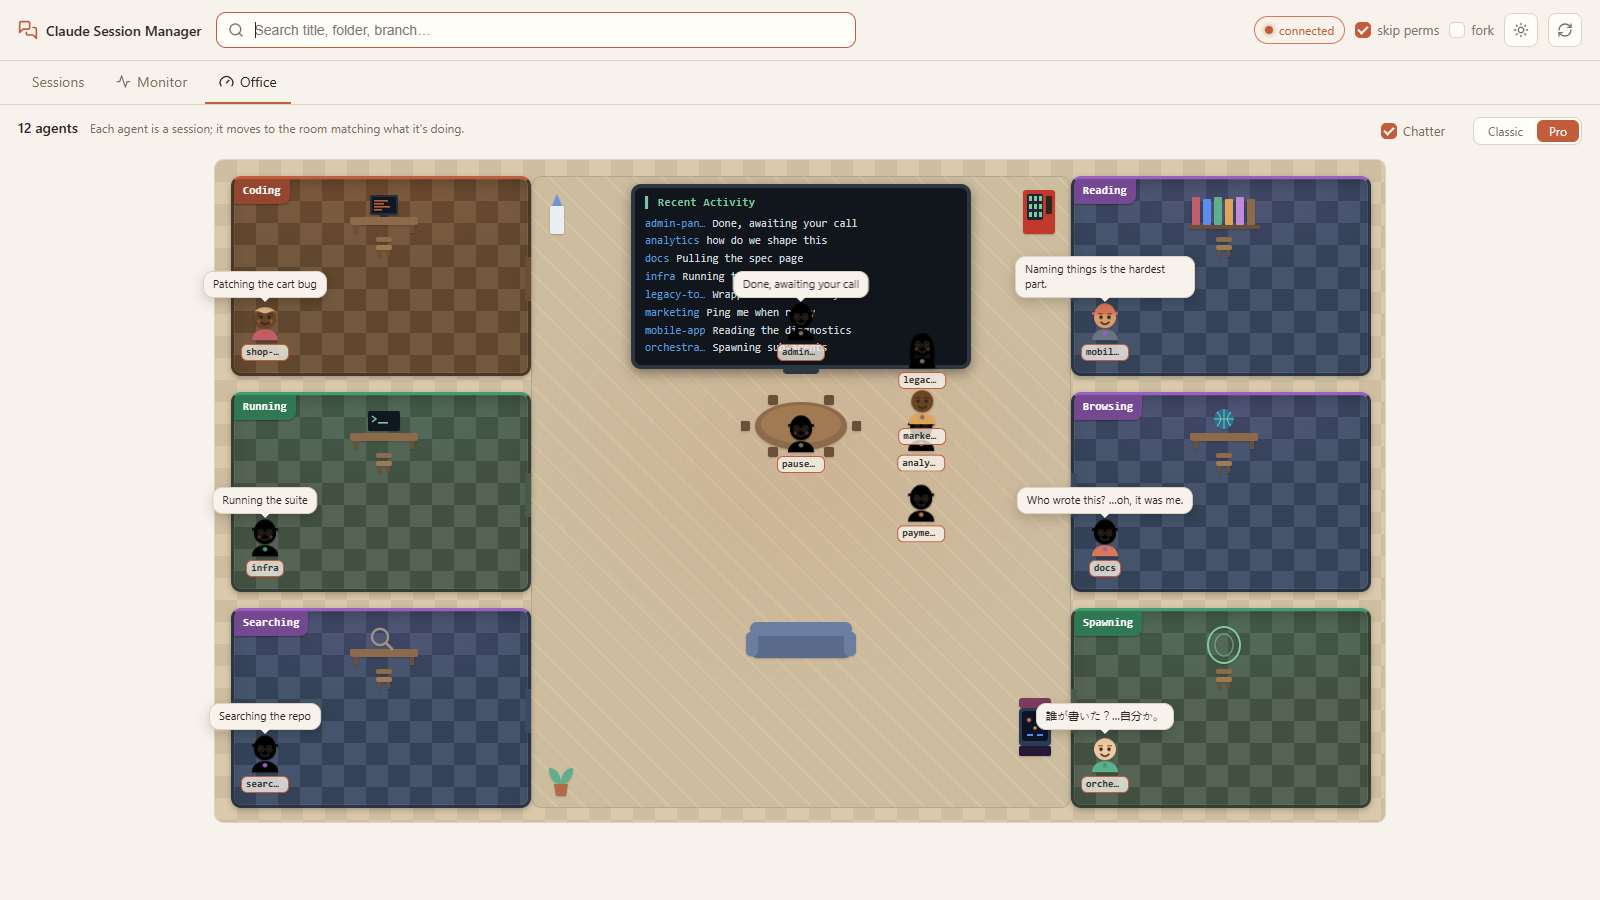
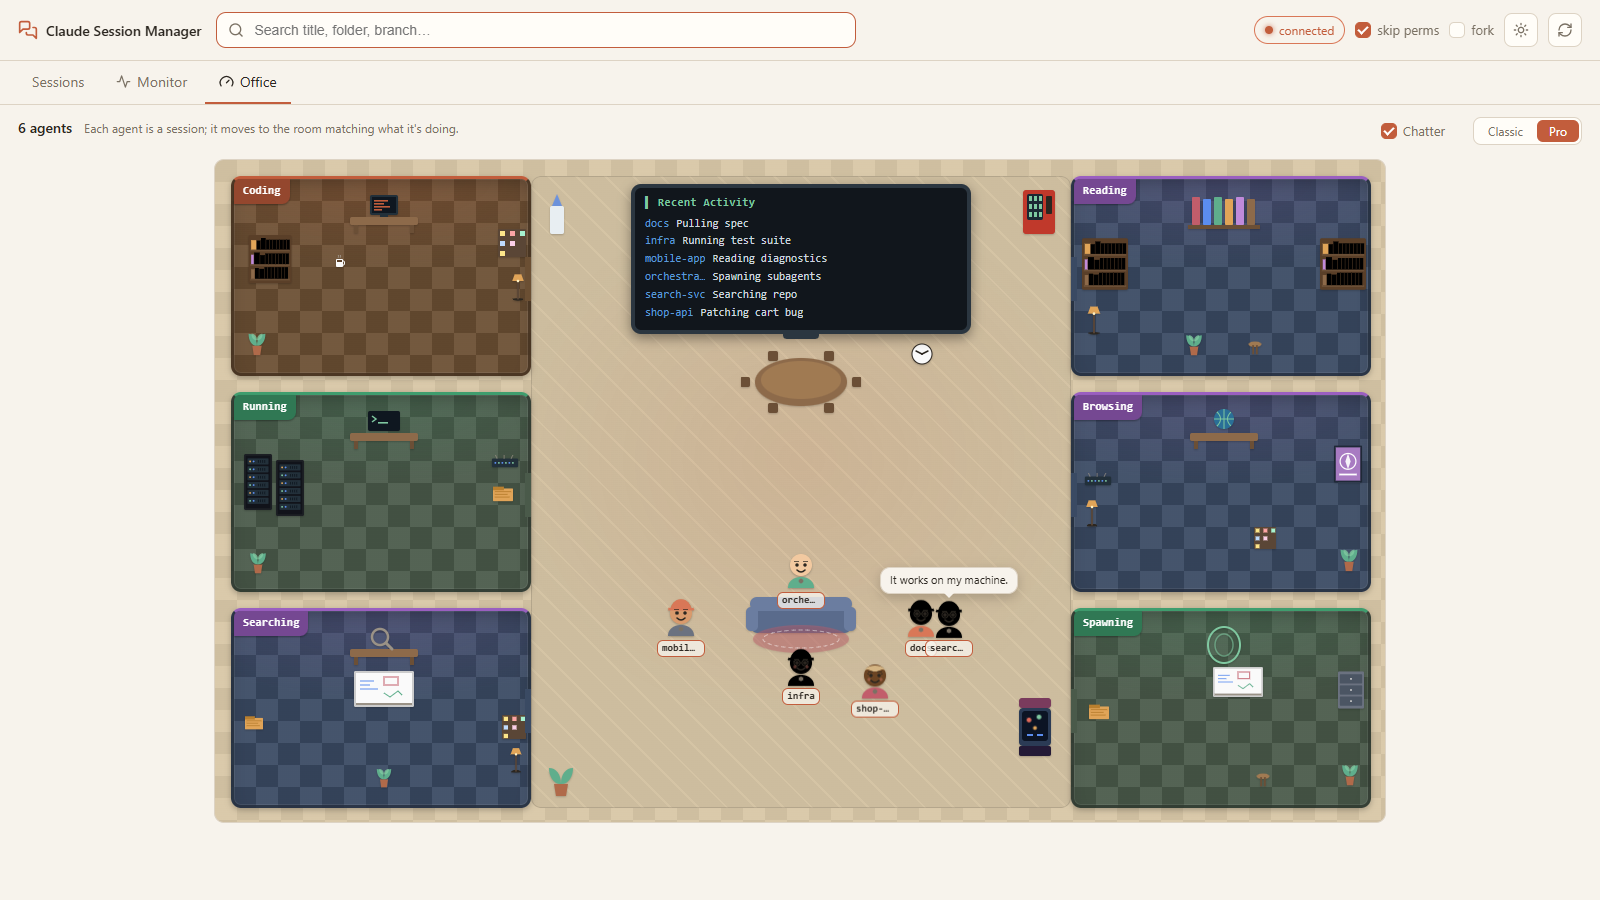
feat(office): furnish Pro rooms with lived-in props
The Pro work rooms used to read 70%-empty — one desk at the top, one chair,
and a lot of bare floor. This commit drops the single chair and sprinkles
3–5 themed props per room so each one reads as a real little workspace:

- Coding   — bookshelf, sticky-note board, lamp, plant, coffee cup
- Reading  — two tall bookshelves, lamp, stool, plant
- Running  — two server racks (with LEDs), router, files, plant
- Searching— whiteboard with doodles, sticky board, files, lamp, plant
- Browsing — poster, router, lamp, plant, sticky board
- Spawning — file cabinet, whiteboard, files, stool, plant

Lounge:
- Pull the meeting table closer to the TV so the dead band between them
  collapses; raise the sofa a touch.
- Add a wall clock beside the TV and a red dashed rug under the sofa so the
  central space reads as a furnished lounge instead of a long hallway.

Refresh assets/office-pro.png with the new look.

diff --git a/packages/ui/public/app.js b/packages/ui/public/app.js
@@ -1529,6 +1529,203 @@ const OfficePro = (() => {
     return g;
   }
 
+  // --- Extra room props (a real lived-in room has more than a desk) -----
+  // Each helper returns a small SVG sized to its viewBox. roomFurniture(def)
+  // sprinkles 3–5 of these around the room so it doesn't look 70%-empty.
+
+  function rpBookshelf(w = 50, h = 56) {
+    const g = svgEl('svg', { viewBox: '0 0 50 56', class: 'desk', width: w, height: h });
+    g.appendChild(svgEl('rect', { x: 0, y: 0, width: 50, height: 56, rx: 2, fill: '#5a3f28' }));
+    const cols = ['#c25d6b','#5b8def','#5fae8c','#e0a458','#c08adb','#8d6a4a','#3a4a63','#7fc8a0'];
+    for (let row = 0; row < 3; row++) {
+      const y = 4 + row * 17;
+      g.appendChild(svgEl('rect', { x: 2, y: y + 13, width: 46, height: 2, fill: '#6b4f36' }));  // shelf board
+      let x = 3;
+      while (x < 46) {
+        const bw = 3 + (row + x) % 4; // 3–6 px wide
+        const bh = 10 + ((x * 3) % 4);
+        g.appendChild(svgEl('rect', { x, y: y + 13 - bh, width: bw, height: bh, rx: 0.5, fill: cols[(row + x) % cols.length] }));
+        x += bw + 0.5;
+      }
+    }
+    return g;
+  }
+  function rpServerRack(w = 32, h = 64) {
+    const g = svgEl('svg', { viewBox: '0 0 32 64', class: 'desk', width: w, height: h });
+    g.appendChild(svgEl('rect', { x: 0, y: 0, width: 32, height: 64, rx: 2, fill: '#1c1f24' }));
+    g.appendChild(svgEl('rect', { x: 2, y: 2, width: 28, height: 60, rx: 1, fill: '#11131a' }));
+    for (let i = 0; i < 6; i++) {
+      const y = 5 + i * 9;
+      g.appendChild(svgEl('rect', { x: 4, y, width: 24, height: 7, rx: 1, fill: '#22303a' }));
+      // LEDs
+      g.appendChild(svgEl('circle', { cx: 7, cy: y + 3.5, r: 1, fill: i % 2 ? '#7fc8a0' : '#e0a458' }));
+      g.appendChild(svgEl('circle', { cx: 11, cy: y + 3.5, r: 1, fill: '#5b8def' }));
+      // vent slits
+      for (let v = 0; v < 4; v++) g.appendChild(svgEl('rect', { x: 16 + v * 2.4, y: y + 2, width: 1, height: 3, fill: '#0f1720' }));
+    }
+    return g;
+  }
+  function rpWhiteboard(w = 60, h = 36) {
+    const g = svgEl('svg', { viewBox: '0 0 60 36', class: 'desk', width: w, height: h });
+    g.appendChild(svgEl('rect', { x: 0, y: 0, width: 60, height: 36, rx: 1.5, fill: '#cccccc' }));    // frame
+    g.appendChild(svgEl('rect', { x: 2, y: 2, width: 56, height: 30, fill: '#fafafa' }));              // board
+    // doodles
+    g.appendChild(svgEl('path', { d: 'M6 10h14M6 14h10M6 18h18', stroke: '#5b8def', 'stroke-width': 1, fill: 'none', 'stroke-linecap': 'round' }));
+    g.appendChild(svgEl('rect', { x: 30, y: 6, width: 14, height: 8, fill: 'none', stroke: '#c25d6b', 'stroke-width': 1 }));
+    g.appendChild(svgEl('path', { d: 'M30 22l6 4 8-6 4 4', stroke: '#5fae8c', 'stroke-width': 1, fill: 'none', 'stroke-linecap': 'round' }));
+    g.appendChild(svgEl('rect', { x: 2, y: 32, width: 56, height: 2, fill: '#9a9286' }));              // tray
+    return g;
+  }
+  function rpPlant(w = 22, h = 30) {
+    const g = svgEl('svg', { viewBox: '0 0 22 30', class: 'desk', width: w, height: h });
+    g.appendChild(svgEl('path', { d: 'M11 18C5 18 2 12 2 5c5 0 9 4 9 13zM11 18c6 0 9-6 9-13-5 0-9 4-9 13z', fill: '#5fae8c' }));
+    g.appendChild(svgEl('path', { d: 'M11 12c-4 0-6-3-6-7 3 0 6 2 6 7zM11 12c4 0 6-3 6-7-3 0-6 2-6 7z', fill: '#7fc8a0', opacity: 0.8 }));
+    g.appendChild(svgEl('path', { d: 'M6 18h10l-1.5 10H7.5z', fill: '#b06a4a' }));
+    return g;
+  }
+  function rpLamp(w = 18, h = 36) {
+    const g = svgEl('svg', { viewBox: '0 0 18 36', class: 'desk', width: w, height: h });
+    g.appendChild(svgEl('ellipse', { cx: 9, cy: 34, rx: 6, ry: 1.5, fill: '#2b2620' }));      // base
+    g.appendChild(svgEl('rect', { x: 8, y: 12, width: 2, height: 22, fill: '#5a4636' }));     // pole
+    g.appendChild(svgEl('path', { d: 'M2 12 L16 12 L13 4 L5 4 z', fill: '#e0a458' }));        // shade
+    g.appendChild(svgEl('circle', { cx: 9, cy: 12, r: 1.5, fill: '#fff1c4' }));               // bulb glow
+    return g;
+  }
+  function rpRug(w = 80, h = 32, tint = '#c25d6b') {
+    const g = svgEl('svg', { viewBox: '0 0 80 32', class: 'desk', width: w, height: h });
+    g.appendChild(svgEl('ellipse', { cx: 40, cy: 16, rx: 38, ry: 14, fill: tint, opacity: 0.55 }));
+    g.appendChild(svgEl('ellipse', { cx: 40, cy: 16, rx: 30, ry: 10, fill: 'none', stroke: '#fff', 'stroke-width': 0.8, 'stroke-dasharray': '3 3', opacity: 0.5 }));
+    return g;
+  }
+  function rpStickyBoard(w = 28, h = 28) {
+    const g = svgEl('svg', { viewBox: '0 0 28 28', class: 'desk', width: w, height: h });
+    g.appendChild(svgEl('rect', { x: 0, y: 0, width: 28, height: 28, rx: 1, fill: '#5a4636' })); // cork
+    const cols = ['#fde68a','#fca5a5','#a7f3d0','#bfdbfe','#fbcfe8'];
+    const cells = [[2,2],[12,2],[22,2],[2,12],[12,12],[2,22]];
+    cells.forEach(([x,y], i) => g.appendChild(svgEl('rect', { x, y, width: 5, height: 5, fill: cols[i % cols.length] })));
+    return g;
+  }
+  function rpCoffee(w = 12, h = 14) {
+    const g = svgEl('svg', { viewBox: '0 0 12 14', class: 'desk', width: w, height: h });
+    g.appendChild(svgEl('rect', { x: 2, y: 4, width: 7, height: 8, rx: 1, fill: '#fafafa' }));     // cup
+    g.appendChild(svgEl('path', { d: 'M9 6c2 0 2 4 0 4', fill: 'none', stroke: '#fafafa', 'stroke-width': 1 }));
+    g.appendChild(svgEl('rect', { x: 3, y: 5, width: 5, height: 2, fill: '#5a3f28' }));            // coffee
+    g.appendChild(svgEl('path', { d: 'M4 3 q1 -2 0 -3 M6 3 q1 -2 0 -3', stroke: '#cccccc', 'stroke-width': 0.6, fill: 'none', opacity: 0.7 }));
+    return g;
+  }
+  function rpFiles(w = 24, h = 22) {
+    const g = svgEl('svg', { viewBox: '0 0 24 22', class: 'desk', width: w, height: h });
+    g.appendChild(svgEl('rect', { x: 1, y: 6, width: 22, height: 14, rx: 1, fill: '#e0a458' }));
+    g.appendChild(svgEl('rect', { x: 1, y: 4, width: 12, height: 4, rx: 0.5, fill: '#b97f2e' }));
+    g.appendChild(svgEl('rect', { x: 3, y: 9, width: 18, height: 1, fill: '#b97f2e' }));
+    g.appendChild(svgEl('rect', { x: 3, y: 12, width: 14, height: 1, fill: '#b97f2e' }));
+    g.appendChild(svgEl('rect', { x: 3, y: 15, width: 16, height: 1, fill: '#b97f2e' }));
+    return g;
+  }
+  function rpPoster(w = 32, h = 42, tint = '#5b8def') {
+    const g = svgEl('svg', { viewBox: '0 0 32 42', class: 'desk', width: w, height: h });
+    g.appendChild(svgEl('rect', { x: 0, y: 0, width: 32, height: 42, rx: 1, fill: '#1f2937' }));
+    g.appendChild(svgEl('rect', { x: 2, y: 2, width: 28, height: 38, fill: tint, opacity: 0.85 }));
+    g.appendChild(svgEl('circle', { cx: 16, cy: 18, r: 9, fill: 'none', stroke: '#fff', 'stroke-width': 1.4 }));
+    g.appendChild(svgEl('path', { d: 'M16 9 l3 9 -3 9 -3 -9 z', fill: '#fff', opacity: 0.9 }));
+    g.appendChild(svgEl('rect', { x: 6, y: 32, width: 20, height: 2, fill: '#fff' }));
+    return g;
+  }
+  function rpRouter(w = 30, h = 16) {
+    const g = svgEl('svg', { viewBox: '0 0 30 16', class: 'desk', width: w, height: h });
+    g.appendChild(svgEl('rect', { x: 0, y: 4, width: 30, height: 10, rx: 1.5, fill: '#22303a' }));
+    [4,8,12,16,20,24].forEach((cx, i) => g.appendChild(svgEl('circle', { cx, cy: 9, r: 1, fill: i % 2 ? '#7fc8a0' : '#5b8def' })));
+    g.appendChild(svgEl('path', { d: 'M6 4 l-2 -4 M14 4 l0 -4 M22 4 l2 -4', stroke: '#9a9286', 'stroke-width': 0.8, fill: 'none' }));
+    return g;
+  }
+  function rpClock(w = 22, h = 22) {
+    const g = svgEl('svg', { viewBox: '0 0 22 22', class: 'desk', width: w, height: h });
+    g.appendChild(svgEl('circle', { cx: 11, cy: 11, r: 10, fill: '#fafafa', stroke: '#2b2620', 'stroke-width': 1 }));
+    g.appendChild(svgEl('path', { d: 'M11 11 V4 M11 11 l5 3', stroke: '#2b2620', 'stroke-width': 1.4, 'stroke-linecap': 'round' }));
+    g.appendChild(svgEl('circle', { cx: 11, cy: 11, r: 0.8, fill: '#2b2620' }));
+    return g;
+  }
+  function rpFileCabinet(w = 28, h = 40) {
+    const g = svgEl('svg', { viewBox: '0 0 28 40', class: 'desk', width: w, height: h });
+    g.appendChild(svgEl('rect', { x: 0, y: 0, width: 28, height: 40, rx: 1.5, fill: '#6b7280' }));
+    for (let i = 0; i < 3; i++) {
+      const y = 3 + i * 12;
+      g.appendChild(svgEl('rect', { x: 2, y, width: 24, height: 10, rx: 1, fill: '#4b5563' }));
+      g.appendChild(svgEl('circle', { cx: 14, cy: y + 5, r: 1, fill: '#cccccc' }));
+    }
+    return g;
+  }
+  function rpStool(w = 18, h = 22) {
+    const g = svgEl('svg', { viewBox: '0 0 18 22', class: 'desk', width: w, height: h });
+    g.appendChild(svgEl('ellipse', { cx: 9, cy: 8, rx: 7, ry: 3, fill: '#a07a52' }));
+    g.appendChild(svgEl('rect', { x: 6, y: 9, width: 2, height: 10, fill: '#6b4f36' }));
+    g.appendChild(svgEl('rect', { x: 10, y: 9, width: 2, height: 10, fill: '#6b4f36' }));
+    return g;
+  }
+
+  /**
+   * Place extra furniture inside a room. Returns an array of
+   * { node, x, y } so caller can append each item at its own offset.
+   * Coordinates are room-local (0..RW × 0..RH). The main desk + label sit at
+   * the top centre, the door is on the lounge-facing edge, and avatars stand
+   * along the bottom — props avoid those zones.
+   */
+  function roomFurniture(activity, side, RW, RH) {
+    // helper to push { node, x, y }
+    const out = [];
+    const add = (node, x, y) => out.push({ node, x, y });
+    // the door is on the inner edge mid-height; avoid the strip around it.
+    const innerX = side === 'L' ? RW - 14 : 6;  // back wall = opposite side
+    const backLeft  = side === 'L' ? 8           : RW - 16;
+    const backRight = side === 'L' ? RW - 60     : 4;
+    switch (activity) {
+      case 'writing': // a coder's room: monitor desk (top), bookshelf along back wall,
+                      // lamp on the side, plant, sticky-notes board, coffee cup
+        add(rpBookshelf(56, 48), side === 'L' ? 8 : RW - 64, 56);
+        add(rpStickyBoard(28, 28), side === 'L' ? RW - 36 : 8, 50);
+        add(rpLamp(16, 30), side === 'L' ? RW - 24 : 8, 92);
+        add(rpPlant(22, 28), side === 'L' ? 12 : RW - 34, 150);
+        add(rpCoffee(12, 14), side === 'L' ? 100 : 60, 76);
+        break;
+      case 'reading': // library: tall bookshelves + reading lamp + stool + plant
+        add(rpBookshelf(46, 70), 8, 50);
+        add(rpBookshelf(46, 70), RW - 54, 50);
+        add(rpLamp(16, 32), side === 'L' ? RW - 30 : 12, 124);
+        add(rpStool(18, 20), RW / 2 + 22, 158);
+        add(rpPlant(20, 26), RW / 2 - 40, 152);
+        break;
+      case 'running': // ops room: server rack on back wall, router, files, plant
+        add(rpServerRack(28, 58), side === 'L' ? 10 : RW - 38, 58);
+        add(rpServerRack(28, 58), side === 'L' ? 42 : RW - 70, 64);
+        add(rpRouter(30, 14), side === 'L' ? RW - 44 : 12, 60);
+        add(rpFiles(22, 20), side === 'L' ? RW - 42 : 14, 88);
+        add(rpPlant(20, 26), side === 'L' ? 14 : RW - 34, 154);
+        break;
+      case 'searching': // detective vibe: whiteboard, sticky-notes, files, lamp
+        add(rpWhiteboard(64, 36), RW / 2 - 32, 60);
+        add(rpStickyBoard(24, 24), side === 'L' ? RW - 32 : 8, 104);
+        add(rpFiles(20, 18), side === 'L' ? 10 : RW - 30, 102);
+        add(rpLamp(16, 28), side === 'L' ? RW - 26 : 10, 134);
+        add(rpPlant(18, 24), RW / 2 - 9, 154);
+        break;
+      case 'browsing': // explorer vibe: poster, globe-desk (already), router, lamp
+        add(rpPoster(28, 38, '#c08adb'), side === 'L' ? 12 : RW - 40, 50);
+        add(rpRouter(28, 14), side === 'L' ? RW - 40 : 10, 78);
+        add(rpLamp(16, 30), side === 'L' ? RW - 28 : 10, 102);
+        add(rpPlant(22, 28), side === 'L' ? 14 : RW - 36, 150);
+        add(rpStickyBoard(22, 22), RW / 2 + 30, 132);
+        break;
+      case 'spawning': // orchestrator: file cabinet, whiteboard, plant, files
+        add(rpFileCabinet(26, 38), side === 'L' ? 10 : RW - 36, 60);
+        add(rpWhiteboard(52, 30), RW / 2 - 12, 56);
+        add(rpFiles(22, 20), side === 'L' ? RW - 38 : 14, 90);
+        add(rpStool(18, 20), RW / 2 + 30, 158);
+        add(rpPlant(20, 26), side === 'L' ? 14 : RW - 34, 150);
+        break;
+    }
+    return out;
+  }
+
   /** Build the static floor once: central lounge + 6 edge rooms + furniture. */
   function buildFloor() {
     if (built || !$floor) return;
@@ -1549,8 +1746,15 @@ const OfficePro = (() => {
     // Lounge props: meeting table (upper), sofa (lower), plants + vending (corners),
     // and two arcade cabinets at the bottom corners where idle agents go to play.
     const addProp = (svg, x, y) => { svg.style.cssText = `left:${x}px;top:${y}px`; lounge.appendChild(svg); };
-    addProp(loungeProp('table'), lz.w / 2 - 60, lz.h * 0.34);
-    addProp(loungeProp('sofa'), lz.w / 2 - 55, lz.h * 0.7);
+    // Pull the meeting table closer to the TV so the dead band between them
+    // collapses, and let the sofa sit a bit higher too.
+    addProp(loungeProp('table'), lz.w / 2 - 60, lz.h * 0.27);
+    addProp(loungeProp('sofa'),  lz.w / 2 - 55, lz.h * 0.66);
+    // A small wall clock on the wall just above the meeting table, off-centre
+    // so it doesn't sit directly under the TV bezel.
+    addProp(loungeProp('clock'), lz.w / 2 + 110, lz.h * 0.27 - 4);
+    // A rug under the sofa to anchor the lower half of the lounge.
+    addProp(loungeProp('rug'),   lz.w / 2 - 50, lz.h * 0.66 + 30);
     // One pinball cabinet at the bottom-right corner of the lounge. Caps the
     // queue at two players (see playSlot) so it doesn't crowd the corner; the
     // right-corner plant is dropped to give the cabinet room to breathe.
@@ -1572,12 +1776,17 @@ const OfficePro = (() => {
       door.style.top = (room.door.y - room.y - 22) + 'px';
       el2.appendChild(door);
       el2.appendChild(el('span', 'room-label', LABELS[room.activity]));
+      // Main zone icon at the top centre (same as before).
       const desk = deskSvg(room.activity);
       desk.style.cssText = `left:${room.w / 2 - 40}px;top:8px`;
       el2.appendChild(desk);
-      const chair = propSvg('chair');
-      chair.style.cssText = `left:${room.w / 2 - 14}px;top:54px`;
-      el2.appendChild(chair);
+      // A scatter of extra props so the room reads as a real little workspace
+      // (placed against the back/side walls, away from the door + the slot row
+      // along the bottom where avatars stand).
+      for (const item of roomFurniture(room.activity, room.side, room.w, room.h)) {
+        item.node.style.cssText = `left:${item.x}px;top:${item.y}px`;
+        el2.appendChild(item.node);
+      }
       $floor.appendChild(el2);
     }
     fitFloor();
@@ -1615,6 +1824,21 @@ const OfficePro = (() => {
       const g = svgEl('svg', { viewBox: '0 0 24 48', class: 'desk', width: 24, height: 48 });
       g.appendChild(svgEl('rect', { x: 5, y: 18, width: 14, height: 28, rx: 2, fill: '#e8eef2' }));
       g.appendChild(svgEl('path', { d: 'M7 18l5-12 5 12z', fill: '#5b8def', opacity: 0.8 }));
+      return g;
+    }
+    if (kind === 'clock') { // wall clock above the meeting table
+      const g = svgEl('svg', { viewBox: '0 0 22 22', class: 'desk', width: 22, height: 22 });
+      g.appendChild(svgEl('circle', { cx: 11, cy: 11, r: 10, fill: '#fafafa', stroke: '#2b2620', 'stroke-width': 1 }));
+      // 10:10 hands so it reads as a friendly clock face
+      g.appendChild(svgEl('path', { d: 'M11 11 L5 8', stroke: '#2b2620', 'stroke-width': 1.4, 'stroke-linecap': 'round' }));
+      g.appendChild(svgEl('path', { d: 'M11 11 L17 8', stroke: '#2b2620', 'stroke-width': 1.4, 'stroke-linecap': 'round' }));
+      g.appendChild(svgEl('circle', { cx: 11, cy: 11, r: 0.8, fill: '#2b2620' }));
+      return g;
+    }
+    if (kind === 'rug') { // rug under the sofa to anchor the floor
+      const g = svgEl('svg', { viewBox: '0 0 100 32', class: 'desk', width: 100, height: 32 });
+      g.appendChild(svgEl('ellipse', { cx: 50, cy: 16, rx: 48, ry: 14, fill: '#c25d6b', opacity: 0.45 }));
+      g.appendChild(svgEl('ellipse', { cx: 50, cy: 16, rx: 38, ry: 9, fill: 'none', stroke: '#fff', 'stroke-width': 0.8, 'stroke-dasharray': '4 3', opacity: 0.55 }));
       return g;
     }
     if (kind === 'arcade') { // upright arcade cabinet — purple, blinking screen